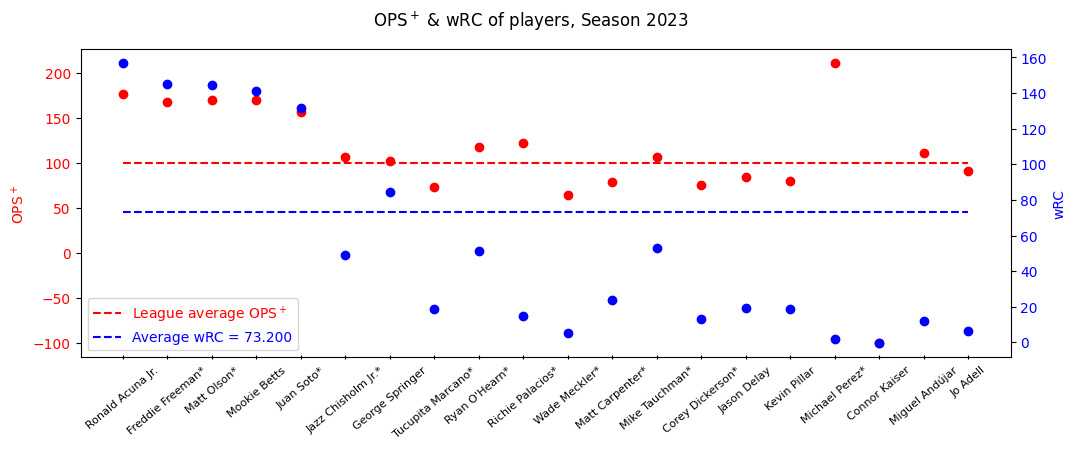
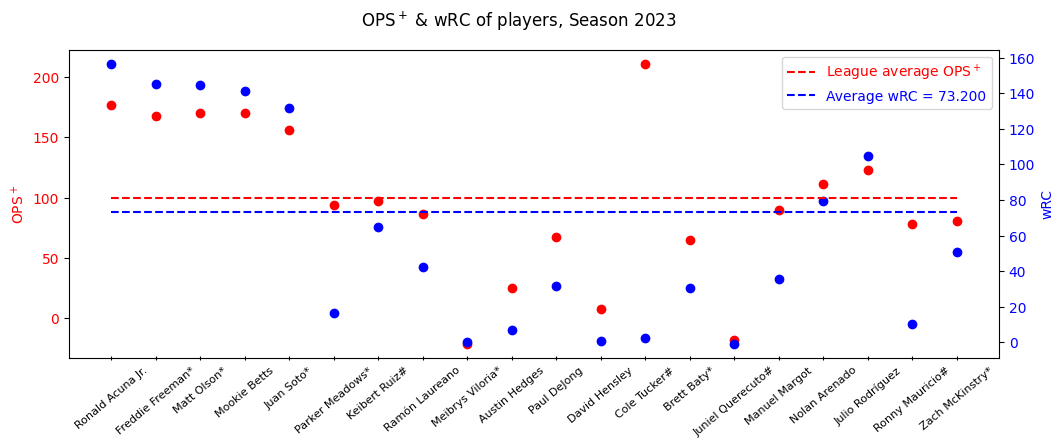
all code finished

diff --git a/112A_final_112514013/module2.py b/112A_final_112514013/module2.py
@@ -1,0 +1,179 @@
+import pandas as pd
+from mpl_toolkits.axes_grid1 import host_subplot
+import numpy as np
+import pandas as pd
+import matplotlib.pyplot as plt
+import random
+
+class Team:
+    
+    def __init__(self, dataPath : str, constPath : str, year : str, team : str="none", minIP : float= 0.0):
+        self.year = year
+        self.team = team
+        DataFrame = pd.read_excel(dataPath,sheet_name=year)
+        constData = pd.read_csv(constPath)
+        self.players = {}
+        if(team != "none"):
+            for i in list(DataFrame.loc[ (DataFrame["Tm"] == team) & (DataFrame["IP"] >= minIP)]["Name"]): # type: ignore
+                self.players[i] = self.PlayerBattingData(DataFrame,constData,i,year,team)
+        else:
+            for i in list(DataFrame.loc[(DataFrame["IP"] >= minIP)]["Name"]): # type: ignore
+                self.players[i] = self.PlayerBattingData(DataFrame,constData,i,year,team)
+        self.LG_AVG_ERA_PLUS = self.players[list(self.players.keys())[0]].LG_AVG_ERA_PLUS
+        self.LG_AVG_FIP = self.players[list(self.players.keys())[0]].LG_AVG_FIP
+        
+    class PlayerBattingData:
+        def __init__(self, DataFrame : pd.DataFrame, constData : pd.DataFrame, name : str, year : str, team : str="none"):
+            self.name = name
+            table = DataFrame.loc[ DataFrame["Name"] == name]  # type: ignore
+            lg_table = DataFrame.iloc[-1] # type: ignore
+            const_table = constData.loc[constData["Season"] == int(year)]
+            self.team = table["Tm"].values[0]
+            LG_ERA = (lg_table["ER"] * 9 / lg_table["IP"])
+            self.__ER : int = table["ER"].values[0]
+            self.IP : float = table["IP"].values[0]
+            self.__HR : int = table["HR"].values[0]
+            self.__BB : int = table["BB"].values[0]
+            self.__HBP : int = table["HBP"].values[0]
+            self.__SO : int = table["SO"].values[0]
+            self.__ERA = (self.__ER * 9 / self.IP) if(self.IP != 0.0) else "invalid"
+            self.ERA_PLUS = LG_ERA / self.__ERA * 100 if(self.__ERA != 0.0) else "invalid"
+            self.FIP = ((self.__HR * 13 + (self.__BB + self.__HBP) * 3 - self.__SO * 2) / self.IP) + const_table["cFIP"].values[0] if(self.IP != 0.0) else "invalid"
+            self.LG_AVG_ERA_PLUS = LG_ERA / LG_ERA * 100
+            self.LG_AVG_FIP = ((lg_table["HR"] * 13 + (lg_table["BB"] + lg_table["HBP"]) * 3 - lg_table["SO"] * 2) / lg_table["IP"]) + const_table["cFIP"].values[0]
+
+    def getPlayersName(self) -> list[ str ]:
+        data = list(self.players.keys())
+        data.sort()
+        return data
+    
+    def getPlayerInfo(self,playerName : str) -> PlayerBattingData: # type: ignore
+        return self.players[playerName]
+
+def solution2(dataPath : str,constPath : str, year : str, minIP : float, team : str="none", saveFig : bool =False):
+        
+    # specified team
+    if(team != "none"):
+
+        # initial data
+        theTeam = Team(dataPath,constPath,year,team,minIP)
+        data = []
+        playersName = theTeam.getPlayersName()
+        LG_AVG_ERA_PLUS = theTeam.LG_AVG_ERA_PLUS
+        LG_AVG_FIP = theTeam.LG_AVG_FIP
+        for i in playersName:
+            data.append(theTeam.getPlayerInfo(i))
+
+        # choose top 13 players or less by ERA_PLUS
+        data = list(filter(lambda x: x.ERA_PLUS != "invalid", data))
+        data.sort(key=lambda x: x.ERA_PLUS,reverse=True)
+        # for i in range(len(data)):
+        #     print(f"{data[i].name}  ERA+ : {data[i].ERA_PLUS}  IP : {data[i].IP}")
+        if(len(data) >= 13):
+            data = data[0:13]
+        else: data = data[0:len(data)]
+
+        # draw figure
+        fig2 = plt.figure(2, figsize=(12,4), dpi=100, facecolor="w")
+        host = host_subplot(111)
+        par = host.twinx()
+        host.scatter(range(len(data)), list(map(lambda x: x.ERA_PLUS, data)), c="r")
+        par.scatter(range(len(data)), list(map(lambda x: x.FIP, data)), c="b")
+        data1, = host.plot(
+            range(len(data)), 
+            np.ones((len(data),))*100, 
+            'r--', 
+            label=r"League average ERA$^+$",    # LaTeX syntax
+        )
+        data2, = par.plot(
+            range(len(data)), 
+            np.ones((len(data),))*LG_AVG_FIP, 
+            'b--', 
+            label="Average FIP = {:.03f}".format(LG_AVG_FIP),
+        )
+        host.set_ylabel(r"ERA$^+$", color='r')
+        host.set_xticks(range(len(data)))
+        host.set_xticklabels(list(map(lambda x: x.name, data)), fontsize=8)
+        for label in host.get_xticklabels():
+            label.set_rotation(40)
+            label.set_horizontalalignment('center')
+        host.tick_params(axis='x', which='both', direction='inout')
+        host.tick_params(axis='y', labelcolor='r')
+        host.legend(labelcolor="linecolor")
+        par.set_ylabel("FIP", color='b')
+        par.tick_params(axis='y', labelcolor='b')
+        fig2.suptitle(r"ERA$^+$ & FIP of Team {0}, Season {1}".format(team,year))
+        if saveFig == True:
+            fig2.savefig(f"fig/ERA+ & FIP of Team {team}, Season {year}", bbox_inches='tight', facecolor='white')
+        plt.show()
+    
+    # no specified team
+    else:
+
+        # initial data
+        AllTeam = Team(dataPath,constPath,year,team,minIP)
+        data = []
+        data_with_invalid = []
+        playersName = AllTeam.getPlayersName()
+        LG_AVG_ERA_PLUS = AllTeam.LG_AVG_ERA_PLUS
+        LG_AVG_FIP = AllTeam.LG_AVG_FIP
+
+        # choose top 5 players by ERA_PLUS and 15 random players
+        for i in playersName:
+            data.append(AllTeam.getPlayerInfo(i))
+        data_with_invalid = list(filter(lambda x: x.ERA_PLUS == "invalid", data))
+        data = list(filter(lambda x: x.ERA_PLUS != "invalid", data))
+        data.sort(key=lambda x: x.ERA_PLUS,reverse=True)
+        # for i in range(5):
+        #     print(f"name : {data[i].name}  team : {data[i].team}  ERA_PLUS : {data[i].ERA_PLUS}")
+        newdata = data[0:5]
+        newdata.extend(random.sample(data[5:len(data)],k = 15))
+
+        # for i in data:
+        #     if (i.name == "Tony\u00A0Gonsolin" or i.name == "Julio\u00A0Urías*" or i.name == "Dylan\u00A0Cease" or i.name == "Alek\u00A0Manoah" or i.name == "Justin\u00A0Verlander"):
+        #         print(f"name : {i.name}  team : {i.team}  ERA_PLUS : {i.ERA_PLUS}  IP : {i.IP}")
+
+        #draw figure
+        fig2 = plt.figure(2, figsize=(12,4), dpi=100, facecolor="w")
+        host = host_subplot(111)
+        par = host.twinx()
+        host.scatter(range(len(newdata)), list(map(lambda x: x.ERA_PLUS, newdata)), c="r")
+        par.scatter(range(len(newdata)), list(map(lambda x: x.FIP, newdata)), c="b")
+        data1, = host.plot(
+            range(len(newdata)), 
+            np.ones((len(newdata),))*100, 
+            'r--', 
+            label=r"League average ERA$^+$",    # LaTeX syntax
+        )
+        data2, = par.plot(
+            range(len(newdata)), 
+            np.ones((len(newdata),))*LG_AVG_FIP, 
+            'b--', 
+            label="Average FIP = {:.03f}".format(LG_AVG_FIP),
+        )
+        host.set_ylabel(r"ERA$^+$", color='r')
+        host.set_xticks(range(len(newdata)))
+        host.set_xticklabels(list(map(lambda x: x.name, newdata)), fontsize=8)
+        for label in host.get_xticklabels():
+            label.set_rotation(40)
+            label.set_horizontalalignment('center')
+        host.tick_params(axis='x', which='both', direction='inout')
+        host.tick_params(axis='y', labelcolor='r')
+        host.legend(labelcolor="linecolor")
+        par.set_ylabel("FIP", color='b')
+        par.tick_params(axis='y', labelcolor='b')
+        fig2.suptitle(r"ERA$^+$ & FIP of players, Season {0}".format(year))
+        if saveFig == True:
+            fig2.savefig(f"fig/ERA+ & FIP of players, Season {year}", bbox_inches='tight', facecolor='white')
+        plt.show()
+
+# for testing
+if __name__ == "__main__":
+    solution2(
+    dataPath="data/data_pitching_2021-2023.xlsx",
+    constPath="data/wOBA_FIP_constants.csv",
+    year="2022",
+    minIP=25.2, # minIP = 25.2 if want to fit the PDF's figure in problem2,team specified, and minIP = 130.0 for figure in problem2,team specified,
+    team="LAA",
+    saveFig=True
+    )

diff --git a/112A_final_112514013/module1.py b/112A_final_112514013/module1.py
@@ -81,22 +81,21 @@ def solution1(dataPath : str,constPath : str, year : str, minPA : int, team : st
 
         # initial data
         theTeam = Team(dataPath,constPath,year,team,minPA)
-        print(theTeam.team)
-        print(theTeam.year)
         data = []
         playersName = theTeam.getPlayersName()
         AVG_OPS_PLUS = theTeam.LG_AVG_OPS_PLUS
         LG_AVG_wRC = theTeam.LG_AVG_wRC
-        print(f"AVG_OPS_PLUS : {AVG_OPS_PLUS}")
-        print(f"LG_AVG_wRC : {LG_AVG_wRC}")
         for i in playersName:
             data.append(theTeam.getPlayerInfo(i))
 
-        # choose top 14 players by wRC
+        # choose top 14 players or less by wRC
+        data = list(filter(lambda x: x.wRC != "invalid", data))
         data.sort(key=lambda x: x.wRC,reverse=True)
-        # for i in range(14):
-        #     print(f"name : {data[i].name}  team : {data[i].team}  wRC : {data[i].wRC}")
-        data = data[0:14]
+        # for i in range(len(data)):
+        #     print(f"{data[i].name}  ERA+ : {data[i].ERA_PLUS}  IP : {data[i].IP}")
+        if(len(data) >= 14):
+            data = data[0:14]
+        else: data = data[0:len(data)]
 
         # draw figure
         fig2 = plt.figure(2, figsize=(12,4), dpi=100, facecolor="w")
@@ -112,9 +111,9 @@ def solution1(dataPath : str,constPath : str, year : str, minPA : int, team : st
         )
         data2, = par.plot(
             range(len(data)), 
-            np.ones((len(data),))*data[0].LG_AVG_wRC, 
+            np.ones((len(data),))*LG_AVG_wRC, 
             'b--', 
-            label="Average wRC = {:.03f}".format(data[0].LG_AVG_wRC),
+            label="Average wRC = {:.03f}".format(LG_AVG_wRC),
         )
         host.set_ylabel(r"OPS$^+$", color='r')
         host.set_xticks(range(len(data)))
@@ -128,7 +127,8 @@ def solution1(dataPath : str,constPath : str, year : str, minPA : int, team : st
         par.set_ylabel("wRC", color='b')
         par.tick_params(axis='y', labelcolor='b')
         fig2.suptitle(r"OPS$^+$ & wRC of Team {0}, Season {1}".format(team,year))
-        fig2.savefig(f"fig/OPS+ & wRC of Team {team}, Season {year}", bbox_inches='tight', facecolor='white')
+        if saveFig == True:
+            fig2.savefig(f"fig/OPS+ & wRC of Team {team}, Season {year}", bbox_inches='tight', facecolor='white')
         plt.show()
 
     # no specified team
@@ -167,9 +167,9 @@ def solution1(dataPath : str,constPath : str, year : str, minPA : int, team : st
         )
         data2, = par.plot(
             range(len(newdata)), 
-            np.ones((len(newdata),))*newdata[0].LG_AVG_wRC, 
+            np.ones((len(newdata),))*LG_AVG_wRC, 
             'b--', 
-            label="Average wRC = {:.03f}".format(newdata[0].LG_AVG_wRC),
+            label="Average wRC = {:.03f}".format(LG_AVG_wRC),
         )
         host.set_ylabel(r"OPS$^+$", color='r')
         host.set_xticks(range(len(newdata)))
@@ -183,7 +183,8 @@ def solution1(dataPath : str,constPath : str, year : str, minPA : int, team : st
         par.set_ylabel("wRC", color='b')
         par.tick_params(axis='y', labelcolor='b')
         fig2.suptitle(r"OPS$^+$ & wRC of players, Season {0}".format(year))
-        fig2.savefig(f"fig/OPS+ & wRC of players, Season {year}", bbox_inches='tight', facecolor='white')
+        if saveFig == True:
+            fig2.savefig(f"fig/OPS+ & wRC of players, Season {year}", bbox_inches='tight', facecolor='white')
         plt.show()
 
 # for testing
@@ -193,6 +194,6 @@ if __name__ == "__main__":
     constPath="data/wOBA_FIP_constants.csv",
     year="2023",
     minPA=0,
-    # team="LAA",
+    team="LAA",
     saveFig=False
     )

diff --git a/112A_final_112514013/main_final.py b/112A_final_112514013/main_final.py
@@ -1,0 +1,35 @@
+import argparse
+from module1 import solution1
+from module2 import solution2
+
+if __name__ == "__main__":
+    # describe about the program
+    parser = argparse.ArgumentParser(description="2023 NYCUDOPCS FinalProject")
+    # add two optional argument
+    parser.add_argument("--dir", default="", type=str, help="Directoryof data")
+    parser.add_argument("--year", default=2023, type=int, help="Whichyear? (default: 2023)")
+    opt = parser.parse_args()
+    
+    # calculate the advanced statistics
+    solution1(
+    dataPath="data/data_batting_2021-2023.xlsx",
+    constPath="data/wOBA_FIP_constants.csv",
+    year="2023",
+    minPA=0,
+    team="LAA", # disabled this for no specified team
+    saveFig=False # create a 'fig' folder in the same directory as the python file, or change the save location of savefig() in each moudle for the images
+    )
+    solution2(
+    dataPath="data/data_pitching_2021-2023.xlsx",
+    constPath="data/wOBA_FIP_constants.csv",
+    year="2022",
+    minIP=25.2, # minIP = 25.2 if want to fit the PDF's figure in problem2,team specified, and minIP = 130.0 for figure in problem2,team specified,
+    team="LAA", # disabled this for no specified team
+    saveFig=False # create a 'fig' folder in the same directory as the python file, or change the save location of savefig() in each moudle for the images
+    )
+
+"""
+Created on Sun Jan 7 00:49:45 2024
+@author: Hsieh Ming Ren, 112514013
+@collaborators: 
+"""
